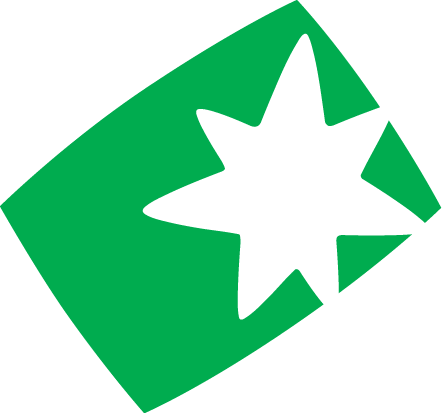
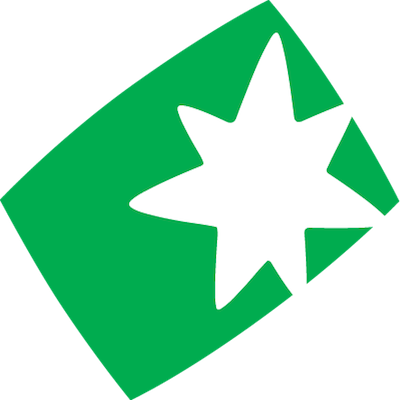
cleans up selectors and function names
- cleans up selectors and function names for more general usage
- makes icon dimensions square

diff --git a/src/constants.js b/src/constants.js
@@ -7,12 +7,11 @@ export const timeDisplayLabel = 'Hide/show duration and progress (ALT + s)';
  * relevant youtube selectors. ytp is youtube player
  *****************************/
 export const ytPlayerSelector = 'ytd-player';
-export const ytpTimeDisplaySelector = 'div.ytp-time-display';
-export const ytpTotalTimeSelector = 'span.ytp-time-duration';
-export const ytpProgressBarSelector = 'div.ytp-progress-bar-container';
+export const ytpTimeDisplaySelector = '.ytp-time-display';
+export const ytpTotalTimeSelector = '.ytp-time-duration';
+export const ytpProgressBarSelector = '.ytp-progress-bar-container';
 export const ytpCeDurationSelector = '.ytp-ce-video-duration';
-export const ytpEndscreenTimeSelector =
-  'span.ytp-videowall-still-info-duration';
+export const ytpEndscreenTimeSelector = '.ytp-videowall-still-info-duration';
 export const thumbnailTimeSelector =
   'ytd-thumbnail-overlay-time-status-renderer';
 export const commentsSectionSelector = 'ytd-comments';
@@ -26,3 +25,48 @@ export const relevantYtSelectors = [
   thumbnailTimeSelector,
   commentsSectionSelector,
 ];
+
+/*****************************
+ * relevant youtube selectors (updated format) - WIP
+ *****************************/
+
+// const youtubeSelectors = {
+//   player: ytPlayerSelector,
+//   playerTimeDisplay: ytpTimeDisplaySelector,
+//   playerDuration: ytpTotalTimeSelector,
+//   playerProgress: ytpProgressBarSelector,
+//   playerCeDuration: ytpCeDurationSelector,
+//   playerEndscreenDuration: ytpEndscreenTimeSelector,
+//   thumbnailDuration: thumbnailTimeSelector,
+//   commentsSection: commentsSectionSelector,
+// };
+
+/*****************************
+ * relevant twitch selectors - WIP
+ *****************************/
+// const twitchSelectors = {
+//   player: '[data-test-selector="video-player__video-container"]',
+//   playerTimeDisplay: '.vod-seekbar-time-labels',
+//   playerDuration: `[data-a-target="player-seekbar-duration"]`,
+//   playerProgress: `[data-a-target="player-seekbar"]`,
+//   playerCeDuration: undefined,
+//   playerEndscreenDuration: undefined,
+//   thumbnailDuration: '.tw-media-card-image__corners', // first child of this selector
+//   commentsSection: undefined,
+// };
+
+/*****************************
+ * relevant afreecatv selectors - WIP
+ *****************************/
+// const atvSelectors = {
+//   player: '#player_area > .htmlplayer_wrap',
+//   playerTimeDisplay: '.ctrl > .time_display',
+//   playerDuration: '.ctrl > .time_display > .time-duration',
+//   playerProgress: '.ctrl > .progress',
+//   playerCeDuration: '.thum > a > .time', // actually list_area's thumbnail durations on player page
+//   playerEndscreenDuration: '.running_time',
+//   thumbnailDuration: '.thum > .time', // user page / home page
+//   commentsSection: '#player_area > .comment_wrap',
+//   // chatSection: '#chatting_area
+//   // listSection: '#list_area
+// };

diff --git a/src/functions.js b/src/functions.js
@@ -47,9 +47,9 @@ export function updateElementVisibility(element) {
   }
 }
 
-export function updateYtpDurationToggle(durationToggle) {
+export function updatePlayerDurationShow(durationToggle) {
   if (!durationToggle) {
-    // logError('updateYtpDurationToggle: No durationToggle');
+    // logError('updatePlayerDurationShow: No durationToggle');
     return;
   }
 
@@ -112,25 +112,25 @@ export function updateVideoPlayer(node) {
   // there should only durationToggle per player. check if any existing before adding.
   let durationToggle = node.querySelector(`#${extTimeDurationId}`);
   if (!durationToggle) {
-    const ytpTimeDisplay = node.querySelector(ytpTimeDisplaySelector);
+    const playerDuration = node.querySelector(ytpTimeDisplaySelector);
 
-    if (!ytpTimeDisplay) {
-      // logError('updateVideoPlayer: No ytpTimeDisplay');
+    if (!playerDuration) {
+      // logError('updateVideoPlayer: No playerDuration');
       return;
     }
 
-    ytpTimeDisplay.onclick = toggleHideShow;
-    ytpTimeDisplay.style.cursor = 'pointer';
-    ytpTimeDisplay.setAttribute('aria-label', timeDisplayLabel);
-    ytpTimeDisplay.setAttribute('title', timeDisplayLabel);
+    playerDuration.onclick = toggleHideShow;
+    playerDuration.style.cursor = 'pointer';
+    playerDuration.setAttribute('aria-label', timeDisplayLabel);
+    playerDuration.setAttribute('title', timeDisplayLabel);
 
     durationToggle = createShowDurationDisplay();
 
     // TODO: element ordering when the live indicator is showing?
-    ytpTimeDisplay.append(durationToggle);
+    playerDuration.append(durationToggle);
   }
 
-  updateYtpDurationToggle(durationToggle);
+  updatePlayerDurationShow(durationToggle);
 }
 
 /*****************
@@ -170,7 +170,7 @@ export function createShowDurationDisplay() {
   durationToggle.textContent = 'Show';
 
   // set initial display style
-  updateYtpDurationToggle(durationToggle);
+  updatePlayerDurationShow(durationToggle);
 
   return durationToggle;
 }
@@ -200,8 +200,8 @@ function observerCallback(mutationsList) {
 
         const totalTimes = node.querySelectorAll(ytpTotalTimeSelector);
         totalTimes.forEach((durationNode) => {
-          const ytPlayer = durationNode.closest(ytPlayerSelector);
-          updateVideoPlayer(ytPlayer);
+          const videoPlayer = durationNode.closest(ytPlayerSelector);
+          updateVideoPlayer(videoPlayer);
         });
       }
 
